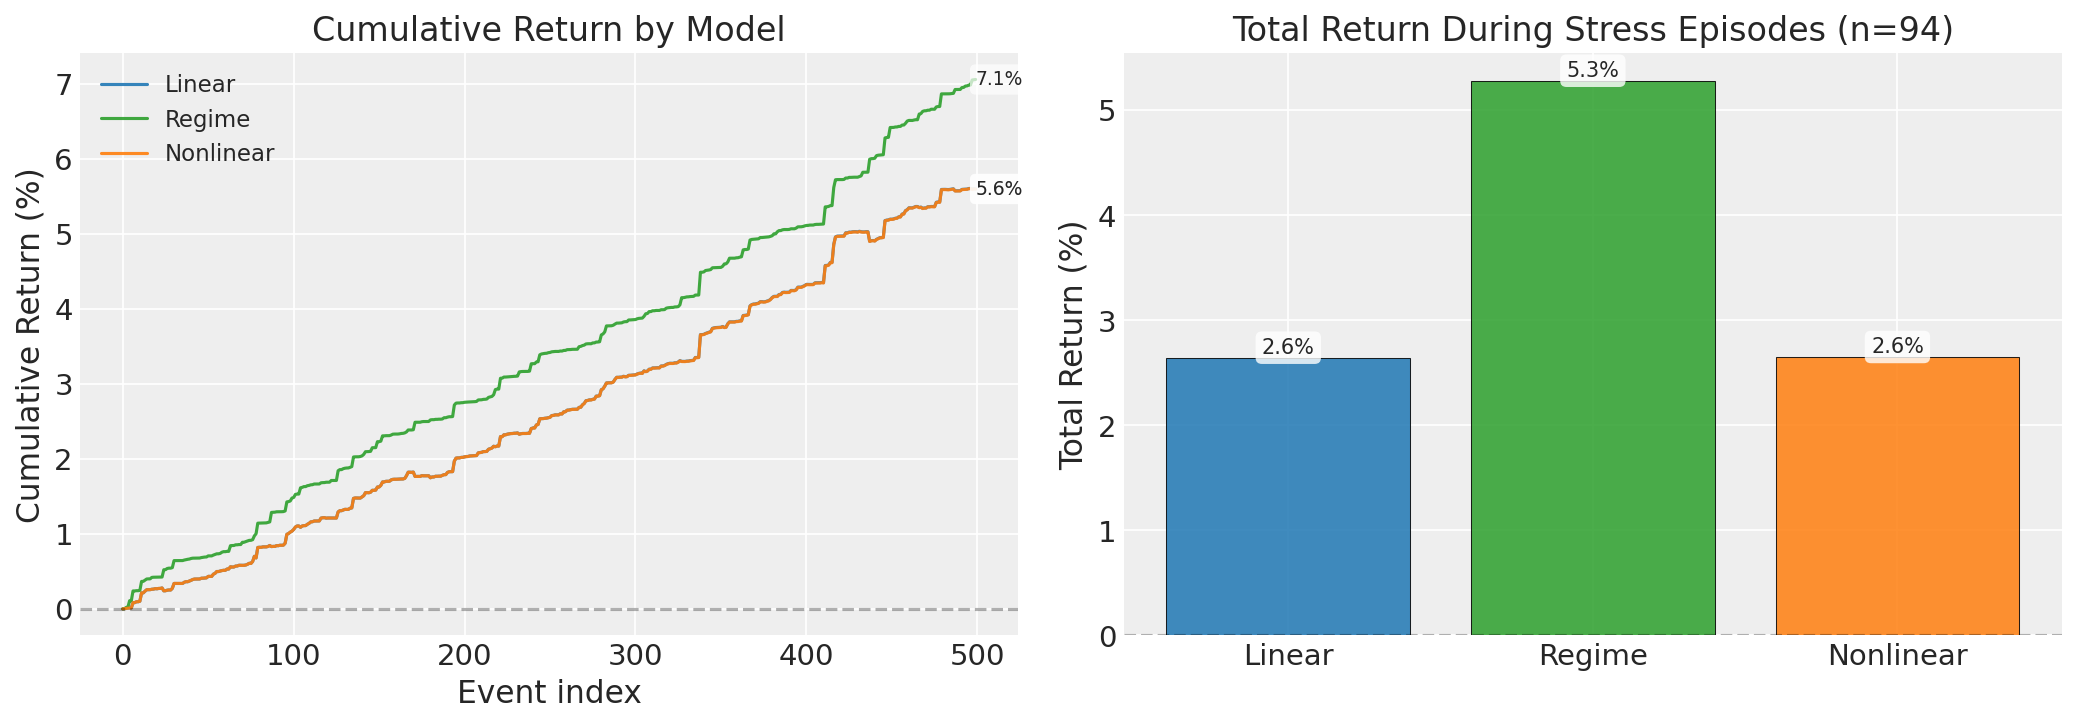
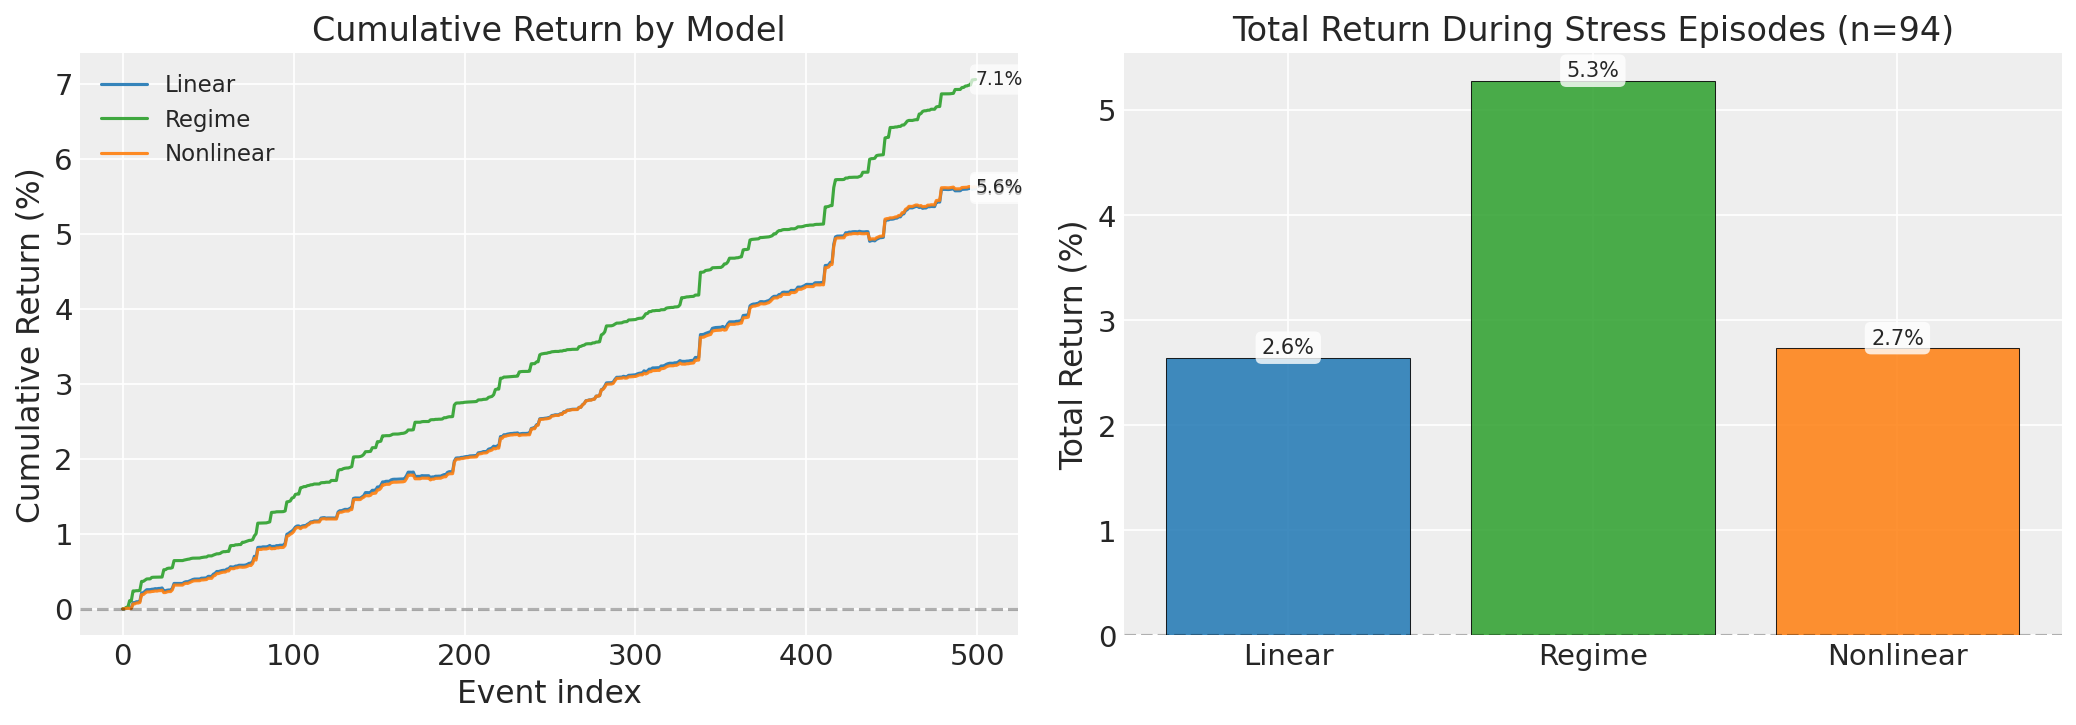
new differences

diff --git a/run_demo_dag1.py b/run_demo_dag1.py
@@ -157,25 +157,32 @@ def main():
         a1 = pm.Normal("a1", mu=0, sigma=2)
         a2 = pm.Normal("a2", mu=0, sigma=2)
         a3 = pm.Normal("a3", mu=0, sigma=2)
+        a4 = pm.Normal("a4", mu=0, sigma=1)  # quadratic term
         a_s1 = pm.HalfNormal("a_scale1", sigma=2)
         a_s2 = pm.HalfNormal("a_scale2", sigma=2)
         sigma_dr = pm.HalfNormal("sigma_dr", sigma=2)
-        dr_mu = a1 * pm.math.tanh(a_s1 * mp_vals) + a2 * pm.math.tanh(a_s2 * rs_vals) + a3 * mp_vals * rs_vals
+        dr_mu = (a1 * pm.math.tanh(a_s1 * mp_vals) + a2 * pm.math.tanh(a_s2 * rs_vals) + 
+                 a3 * mp_vals * rs_vals + a4 * mp_vals**2)
         pm.Normal("DR", mu=dr_mu, sigma=sigma_dr, observed=dr_vals)
 
         b1 = pm.Normal("b1", mu=0, sigma=2)
         b2 = pm.Normal("b2", mu=0, sigma=2)
+        b3 = pm.Normal("b3", mu=0, sigma=1)  # interaction
+        b4 = pm.Normal("b4", mu=0, sigma=1)  # quadratic
         b_s1 = pm.HalfNormal("b_scale1", sigma=2)
         b_s2 = pm.HalfNormal("b_scale2", sigma=2)
         sigma_ecf = pm.HalfNormal("sigma_ecf", sigma=2)
-        ecf_mu = b1 * pm.math.tanh(b_s1 * mp_vals) + b2 * pm.math.tanh(b_s2 * mn_vals)
+        ecf_mu = (b1 * pm.math.tanh(b_s1 * mp_vals) + b2 * pm.math.tanh(b_s2 * mn_vals) +
+                  b3 * mp_vals * mn_vals + b4 * mp_vals**2)
         pm.Normal("ECF", mu=ecf_mu, sigma=sigma_ecf, observed=ecf_vals)
 
         c1 = pm.Normal("c1", mu=0, sigma=2)
         c2 = pm.Normal("c2", mu=0, sigma=2)
         c3 = pm.Normal("c3", mu=0, sigma=2)
+        c4 = pm.Normal("c4", mu=0, sigma=1)  # interaction
         sigma_req = pm.HalfNormal("sigma_req", sigma=2)
-        pm.Normal("R_eq", mu=c1 * dr_vals + c2 * ecf_vals + c3 * rs_vals, sigma=sigma_req, observed=req_vals)
+        pm.Normal("R_eq", mu=c1 * dr_vals + c2 * ecf_vals + c3 * rs_vals + c4 * dr_vals * ecf_vals, 
+                  sigma=sigma_req, observed=req_vals)
 
     # ── 4. Sample all models (cores=1 for Windows compatibility) ──────────
     models = {"Linear": model_linear, "Regime": model_regime, "Nonlinear": model_nonlinear}

diff --git a/blogpost_dag1.md b/blogpost_dag1.md
@@ -115,7 +115,7 @@ The regime indicators (`tight`, `stress`) are deterministic functions of observa
 
 ## Letting the Data Decide: LOO Model Comparison
 
-We fit all three models (2 chains, 500 draws, target acceptance 0.95) and compare out-of-sample predictive performance via Leave-One-Out cross-validation:
+We fit all three models (2 chains, 500 draws, target acceptance 0.95) and compare out-of-sample predictive performance via Leave-One-Out (LOO) cross-validation:
 
 ```python
 comparison = az.compare(traces, ic="loo", var_name="R_eq")
@@ -123,15 +123,15 @@ comparison = az.compare(traces, ic="loo", var_name="R_eq")
 
 ![LOO Model Comparison: Same DAG, Three Functional Forms](figures/fig2_loo_comparison.png)
 
-The result is unambiguous. The regime-switching model (ELPD = −584) is separated from both alternatives (ELPD ≈ −1320) by **736 log-points — more than 17× the standard error of the difference**. This is not a marginal improvement; the data overwhelmingly prefer the model that respects the empirical asymmetry between tightening and easing.
+The result is unambiguous. The Leave-One-Out (LOO) helps us identify the right functional form! Which confirms the strength of Bayesian approach to bridge the gap between having a DAG and actually modeling the real structure of causal relations. The regime-switching model (ELPD = −584) is separated from both alternatives (ELPD ≈ −1321) by **737 log-points — more than 17× the standard error of the difference**. This is not a marginal improvement; the data overwhelmingly prefer the model that respects the empirical asymmetry between tightening and easing.
 
-Notably, the Nonlinear (`tanh`) model is essentially tied with the Linear model. Smooth saturation is not the right nonlinearity here. The discount-rate channel does not gradually curve — it switches. Approximating a step change with a sigmoid wastes flexibility and gains nothing.
+Notably, the Nonlinear (`tanh`) model performs slightly worse than even the Linear model, despite having more parameters (17.1 effective parameters vs 12.0 for Linear). The added polynomial terms and interactions cause overfitting — the model fits training data well but generalizes poorly. Smooth saturation is not the right nonlinearity here. The discount-rate channel does not gradually curve — it switches. Approximating a step change with a sigmoid wastes flexibility and gains nothing.
 
-| Model | ELPD (LOO) | SE | Δ ELPD vs best |
-|---|---:|---:|---:|
-| **Regime** | **−584** | **16** | **0** |
-| Linear | −1320 | 40 | −736 |
-| Nonlinear | −1320 | 40 | −736 |
+| Model | ELPD (LOO) | SE | p_loo | Δ ELPD vs best | 
+|---|---:|---:|---:|---:|
+| **Regime** | **−584** | **16** | **4.9** | **0** | 
+| Linear | −1320 | 40 | 12.0 | −736 | 
+| Nonlinear | −1322 | 40 | 17.1 | −738 |
 
 ---
 
@@ -155,15 +155,15 @@ A simple strategy: predict $R_{eq}$ from each model's posterior mean, go long if
 
 ![Cumulative P&L and Stress-Period Performance by Model](figures/fig4_pnl.png)
 
-**Left panel — Cumulative return**: While all models generate positive returns, the regime model's superior specification translates to consistently stronger performance throughout the sample. The regime model achieves **7.06% return vs 5.60% for the linear and nonlinear models** — a **26% advantage** (1.46 percentage points).
+**Left panel — Cumulative return**: While all models generate positive returns, the regime model's superior specification translates to consistently stronger performance throughout the sample. The regime model achieves **7.06% return vs 5.60% for the linear and 5.62% for the nonlinear models** — a **26% advantage over linear** (1.46 percentage points). The nonlinear model's additional complexity provides no benefit; its overfitting penalties outweigh any gains from flexibility. Knowing the DAG is not enough, you need sophisticated tools to identify the real functional forms. That is precisely what PyMC can do.
 
-**Right panel — Stress episodes only**: The picture changes dramatically. During the 94 stress periods, the regime model earns **5.28% vs 2.64% for the linear and nonlinear models** — a **100% return advantage** in the episodes where amplification is highest and where misspecification is most costly.
+**Right panel — Stress episodes only**: The picture changes dramatically. During the 94 stress periods, the regime model earns **5.28% vs 2.64% for linear and 2.73% for nonlinear** — a **100% return advantage over linear** in the episodes where amplification is highest and where misspecification is most costly. The nonlinear model performs marginally better than linear during stress, but still captures less than half the regime model's returns.
 
-| Model | Full-sample return | Stress-episode return | Stress advantage |
+| Model | Full-sample return | Stress-episode return | Stress advantage vs Linear |
 |---|---:|---:|---:|
 | **Regime** | **7.06%** | **5.28%** | **+100%** |
 | Linear | 5.60% | 2.64% | baseline |
-| Nonlinear | 5.59% | 2.65% | ≈0 |
+| Nonlinear | 5.62% | 2.73% | +3.4% |
 
 *(Returns normalised so that the equity return process has a 2% standard deviation per event, consistent with typical daily equity volatility.)*
 
@@ -212,4 +212,4 @@ Structure is the starting line, not the finish. A DAG without a functional form 
 
 - Bernanke, B. S., & Kuttner, K. N. (2005). What Explains the Stock Market's Reaction to Federal Reserve Policy? *Journal of Finance*, 60(4), 1221–1257.
 - Gilchrist, S., & Zakrajšek, E. (2012). Credit Spreads and Business Cycle Fluctuations. *American Economic Review*, 102(4), 1692–1720.
-- Olivetti, E., Zoonekynd, V., Yam, P., Lopez de Prado, M., Imbens, G. W., & Hernán, M. A. (2024). Can AI Learn Causal Structure? Evidence from ADIA Lab's Causal Discovery Challenge. *SSRN 6125566*.
+- Olivetti, E., Zoonekynd, V., Yam, P., Lopez de Prado, M., Imbens, G. W., & Hernán, M. A. (2024). Can AI Learn Causal Structure? 
